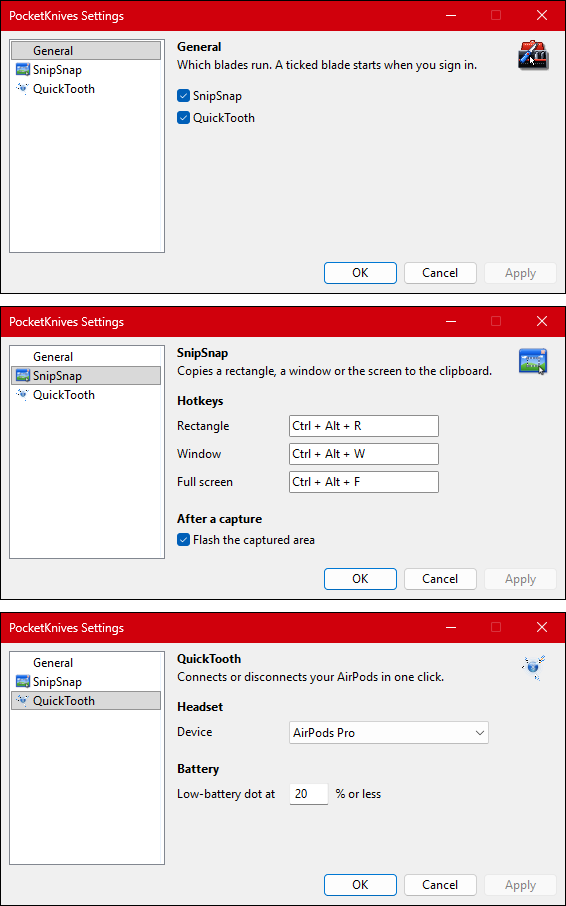
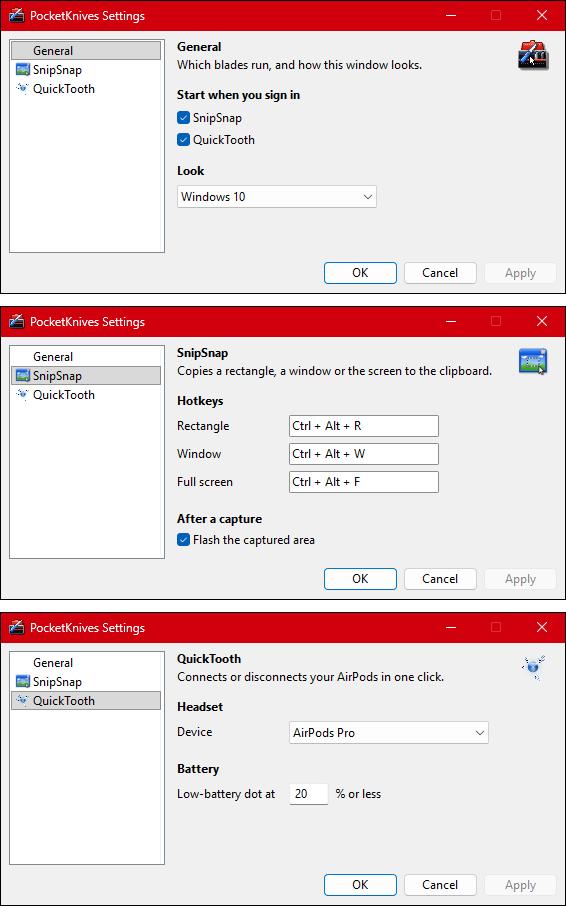
Settings window: three looks (XP, Windows 10, Windows 11), switched in General
The user chose to keep all three looks and pick one with a setting. Both
prototypes have a Look drop-down on General; picking a look saves it in
the runner's INI file ([suite] look=) and reopens the window in it, at
the same place. An off-screen test drove XP -> Windows 10 -> Windows 11
-> XP through the drop-downs' handlers. The Win32 exe is 879 KB (+17 KB).

diff --git a/docs/working/runner-design.md b/docs/working/runner-design.md
@@ -1,8 +1,9 @@
 # Runner design: how blades run together
 
 **Status: a proposal, not decided.** Nothing here is built. Decided by the user so far: there will
-be a settings window with every blade's icon in it and a list on the side. Its look is open: raw
-Win32, the Windows 10/11 look of the same controls, or the Windows 11 Settings look in WinUI 3.
+be a settings window with every blade's icon in it and a list on the side, in three looks the
+user switches between with a setting: XP, Windows 10 and Windows 11 ([the settings
+window](#the-settings-window-decided-there-is-one-in-three-looks)).
 Once the user picks the rest, this page shrinks to the decision (in [decisions](decisions.md)) and
 specs for the runner and the window; the measurements stay in the commits' history.
 
@@ -101,34 +102,48 @@ their own process.
 - Settings would have to cross the ABI as well.
 - Everything B's merge would save, at a higher price than A.
 
-## The settings window (decided: there is one)
+## The settings window (decided: there is one, in three looks)
 
-One window changes each blade's behaviour, looks and settings. The user wants it raw: minimal,
-nothing fancy, brutalist, native Windows controls, a list on the side. Proposed: plain Win32
-controls in the `pk` runner, with no UI framework and no custom drawing. A throwaway prototype
-(C# Native AOT, placeholder values, wired to nothing) looks like this, rendered off-screen at 100%
-with `PrintWindow`. Nobody has seen it on a screen yet.
+One window changes each blade's behaviour, looks and settings. The user chose to keep three looks
+and switch between them with a setting, **Look** on the General page:
 
-![The prototype, raw: the General, SnipSnap and QuickTooth pages](runner-design/settings-raw.png)
+- **XP**: the raw look below (minimal, brutalist, native controls, a list on the side);
+- **Windows 10**: the same controls with visual styles on;
+- **Windows 11**: the Windows 11 Settings style, in WinUI 3.
+
+Proposed: XP and Windows 10 are plain Win32 controls in the `pk` runner, with no UI framework and
+no custom drawing; Windows 11 is its own exe. Throwaway prototypes (C# Native AOT for Win32,
+placeholder values, wired to nothing but the look) look like this, rendered off-screen at 100%
+with `PrintWindow`.
+
+![The prototype, XP: the General, SnipSnap and QuickTooth pages](runner-design/settings-raw.png)
 
 - **Layout**: a list on the left, one row per page ("General", then each blade with its 16 px
   icon); the selected page on the right; OK / Cancel / Apply at the bottom. A page is its name in
   bold, one line on what it does and a 32 px logo at the top right (the blade's; the PocketKnives
   logo on General), then plain bold headings with the controls under them. No tabs, no group
   boxes, no separators.
-- **Look**: Windows' classic controls (visual styles switched off with `SetWindowTheme`, which
-  also gives the classic title bar), with the flat variant of buttons and check boxes (`BS_FLAT`)
-  and 1 px black borders (`WS_BORDER`) on the list and text boxes. The system font (Segoe UI 9),
-  square corners (a DWM setting), no caption icon. The drop-down keeps its classic 3D button:
-  Windows has no flat variant of it.
-- **The Windows 10/11 look** is the other native option: the same layout with visual styles on,
-  the controls' own themed borders and Explorer's list look. Windows draws it in its current
-  style: Windows 11's here (rounded buttons, accent-coloured check boxes, its title bar and rounded
-  window corners), Windows 10's on Windows 10 (not captured; no Windows 10 PC here). In these
-  captures the window is inactive, so the list's selection is grey instead of light blue, and the
-  corners Windows 11 rounds on screen come out square.
+- **XP**: Windows' classic controls (visual styles switched off with `SetWindowTheme`, which also
+  gives the classic title bar), with the flat variant of buttons and check boxes (`BS_FLAT`) and
+  1 px black borders (`WS_BORDER`) on the list and text boxes. The system font (Segoe UI 9),
+  square corners (a DWM setting), the suite's 16 px icon in the title bar. The drop-downs keep
+  their classic 3D button: Windows has no flat variant of it. XP's own Luna theme isn't one of
+  the looks (see below).
+- **Windows 10**: the same layout with visual styles on, the controls' own themed borders and
+  Explorer's list look. Windows draws it in its current style: Windows 11's here (rounded buttons,
+  accent-coloured check boxes, its title bar and rounded window corners), Windows 10's on Windows
+  10 (not captured; no Windows 10 PC here). In these captures the window is inactive, so the
+  list's selection is grey instead of light blue, and the corners Windows 11 rounds on screen come
+  out square.
 
-  ![The prototype, Windows 10/11 look: the same three pages](runner-design/settings-modern.png)
+  ![The prototype, Windows 10: the same three pages](runner-design/settings-modern.png)
+
+- **Switching looks**: picking one under Look saves it (`look=xp|win10|win11` in the `[suite]`
+  section of the runner's INI file, through kernel32) and reopens the window in that look, at the
+  same place, on General; it applies at once, without Apply. `pk settings` opens the saved look;
+  XP is the default. The prototypes do this across both exes (`pksettings.exe show` opens the
+  saved look), and an off-screen test went through every switch (XP → Windows 10 → Windows 11 →
+  XP) through the drop-downs' own handlers.
 
 - **Not possible with Win32 controls**: XP's Luna, 7's Aero glass, a dark mode. Imitating them
   means drawing the controls ourselves. Win32 windows can also be given Windows 11's Mica backdrop
@@ -141,14 +156,15 @@ with `PrintWindow`. Nobody has seen it on a screen yet.
   window uses the largest frame of `assets/pocketknives.ico` that fits the 32 px slot (32, 48 or
   64 px), so it's never scaled. The same `.ico` is the `pk` exe's icon, and the settings window's
   in the taskbar and the Start menu.
-- **Measured** (this prototype, both icons): an 862 KB exe with zero AOT warnings; 1.6 MB private
-  working set while open; 56 ms from launch until it has painted and exited (median of 30).
+- **Measured** (this prototype, both looks, the icons and the look switch): an 879 KB exe with
+  zero AOT warnings (the switch added 17 KB); 1.6 MB private working set while open; 56 ms from
+  launch until it has painted and exited (median of 30, measured before the logos and the switch).
   Closed, it costs nothing.
 
-### The Windows 11 Settings look: WinUI 3
+### Windows 11: the Settings style in WinUI 3
 
-The user asked whether a modern, glassy look like the Windows 11 Settings app is possible. It is:
-WinUI 3 (the Windows App SDK) is Microsoft's native UI framework for that style. It has Mica, the
+WinUI 3 (the Windows App SDK) is Microsoft's native UI framework for the Windows 11 Settings app's
+modern, glassy style. It has Mica, the
 navigation pane, setting cards, toggle switches and dark mode. A second throwaway prototype (WinUI 3
 from the Windows App SDK 1.6 already in the local NuGet cache, restored offline, self-contained,
 UI built in code, the same five placeholder settings and the same logos at the top right, here
@@ -170,16 +186,17 @@ PC's apps are set to dark:
 - **Stability of the prototype**: about one run in three of the capture mode crashed (heap
   corruption), and shutting down crashed until the prototype ended its process directly. Most
   likely the old SDK 1.6 on .NET 10; not investigated. A real build would use a current SDK.
-- **Smaller downloads** would come from requiring the Windows App Runtime installed instead of
-  bundling it (it's on this PC because other apps installed it). Not measured: that needs the
-  matching, newer SDK downloaded.
+- **Every install carries it**, even for people who never pick Windows 11: the sizes above, on
+  top of the Win32 window's 879 KB. Smaller downloads would come from requiring the Windows App
+  Runtime installed instead of bundling it (it's on this PC because other apps installed it). Not
+  measured: that needs the matching, newer SDK downloaded.
 - **Differences from the Win32 versions**: changes apply at once (no OK / Apply), as in Settings.
   There's no hotkey-capture control, so SnipSnap's hotkey boxes need custom key handling. On
   Windows 10 there's no Mica, so the backdrop is a flat colour. WinUI scales images smoothly, so
   above 100% display scaling the pixel-art suite logo needs a version already doubled (the .ico's
   64 and 96 px frames) picked in code; the prototype doesn't do that yet.
-- **The runner stays free of it**: in this option the window is its own exe, which `pk settings`
-  starts, so signing in never loads WinUI.
+- **The runner stays free of it**: this look is its own exe, which `pk settings` starts when the
+  saved look is Windows 11, so signing in never loads WinUI.
 
 How it works with a process per blade:
 
@@ -206,6 +223,7 @@ How it works with a process per blade:
   | Setting | Today |
   |---|---|
   | Each blade on or off (on: it starts at sign-in) | Exists per blade (SnipSnap's Startup shortcut, QuickTooth's Run value) |
+  | The settings window's look (XP, Windows 10, Windows 11) | New: chosen by the user |
   | SnipSnap's three hotkeys | Fixed in code (with fallbacks): new as a setting |
   | SnipSnap: flash the captured area | Always on: new as a setting |
   | QuickTooth's device | Exists (its tray menu's Device ▸) |

diff --git a/docs/working/decisions.md b/docs/working/decisions.md
@@ -10,10 +10,11 @@ blade's own decisions are in its `docs/working/decisions.md`.
   (`git filter-repo --to-subdirectory-filter`), so nothing is lost if they're never touched again.
 - **A settings window** that changes the behaviour, looks and settings of each blade, with each
   blade's icon in the list and its logo at the top right of its page (the PocketKnives logo on
-  General). In the user's words: a raw look, minimal, nothing fancy, brutalist; simple,
-  maybe lists on the side; native Windows stuff. (This replaced asking for an XP/7 look, and a
-  Windows 7 look drawn by hand was dropped.) The user then asked about a Windows 11 Settings-style
-  look (glassy, modern), so which look it has is open again, as are how it's built and which
-  settings it offers ([runner design](runner-design.md)).
+  General). It has **three looks, switched with a setting** (General > Look): **XP**, the raw
+  look (in the user's words: minimal, nothing fancy, brutalist, lists on the side, native Windows
+  stuff); **Windows 10**, the same native controls with visual styles on; **Windows 11**, the
+  Windows 11 Settings style (glassy, modern) in WinUI 3. A Windows 7 look drawn by hand was
+  dropped. How it's built and which settings it offers are still open
+  ([runner design](runner-design.md)).
 - **How blades run together, shared code and the default language** for new blades: being decided
   ([runner design](runner-design.md)).
